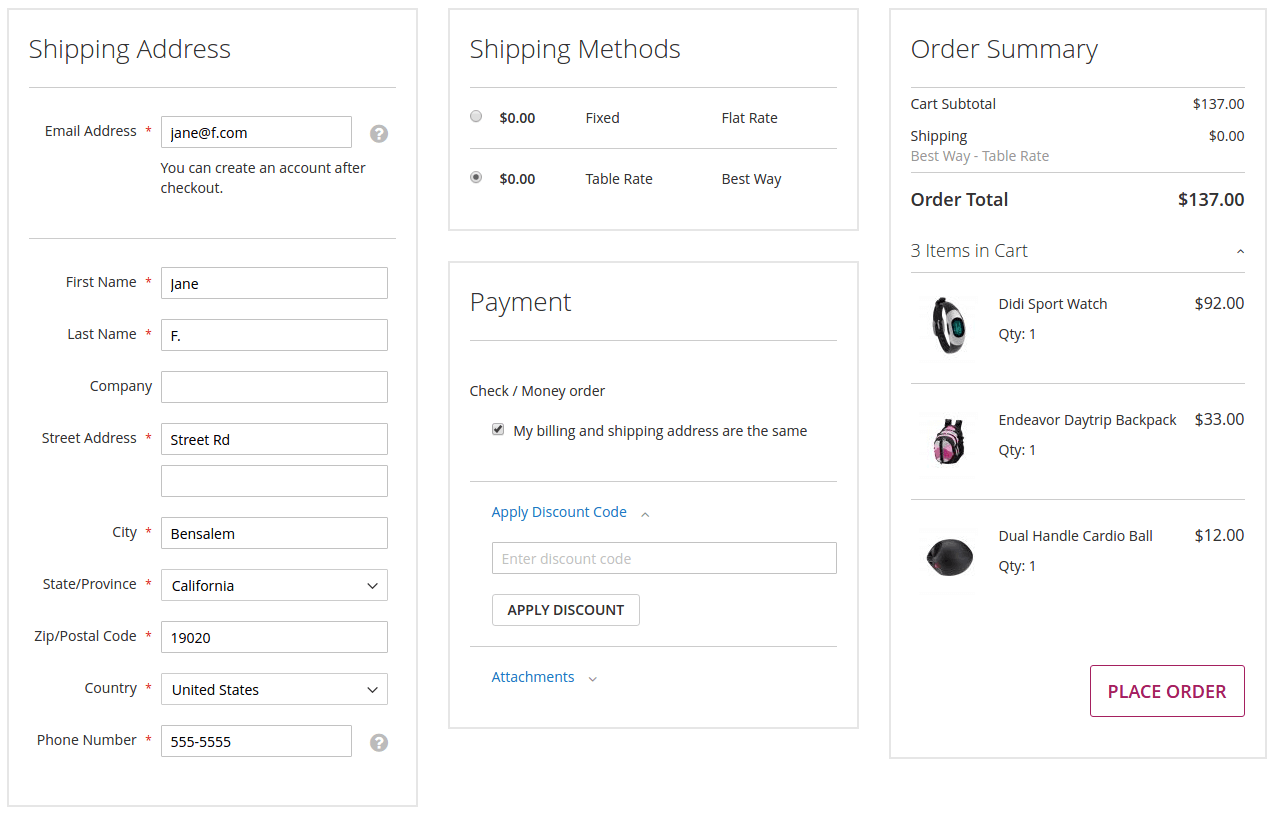
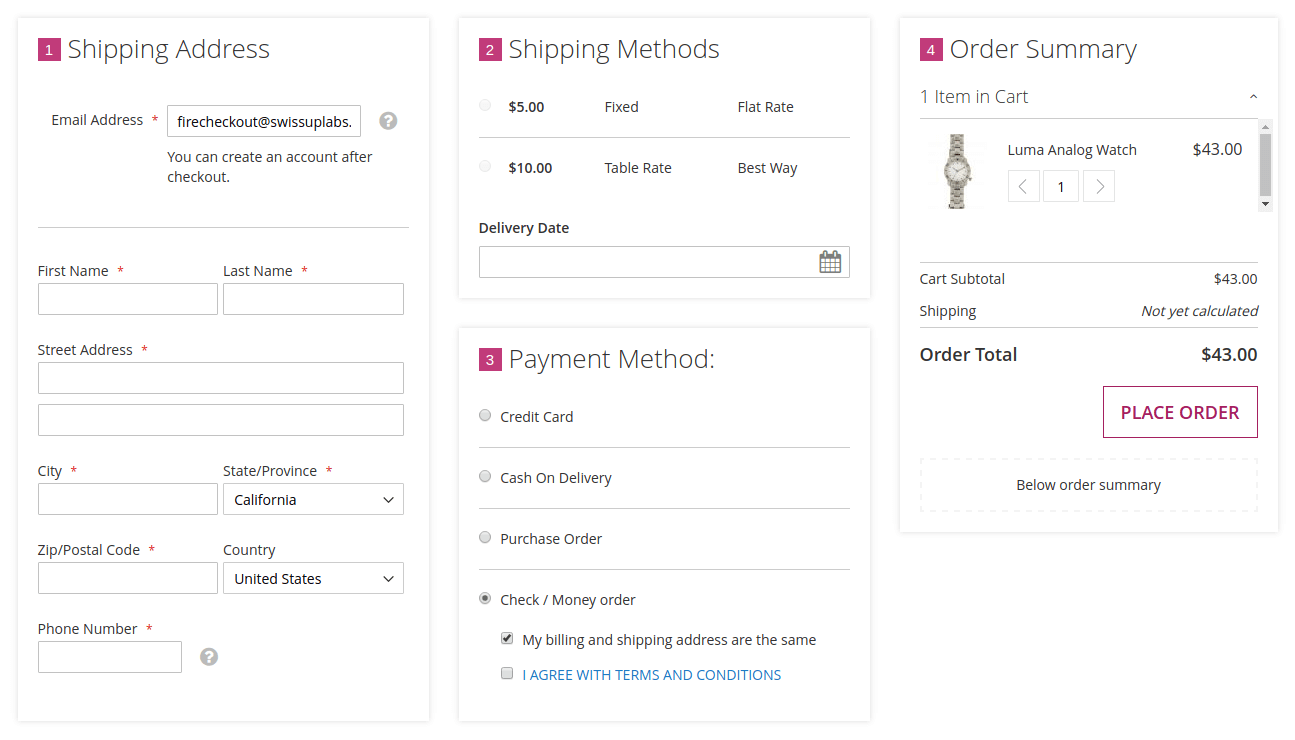
Firecheckout M2: 1.5.0 update

diff --git a/m2/extensions/firecheckout/customization/custom-css.md b/m2/extensions/firecheckout/customization/custom-css.md
@@ -24,10 +24,10 @@ worrying about further updates.
 
 ### Example
 
-Let's add some air to the firecheckout sections and slightly improve form styles.
+Let's slightly change form and firecheckout layout styles and section number colors.
 [Scroll down](#result) to see the result.
 
- 1. Create `_custom.less` file inside your active theme:
+ 1. Create two `_custom.less` files inside your active theme:
 
     ```
     app
@@ -38,41 +38,53 @@ Let's add some air to the firecheckout sections and slightly improve form styles
                     └── Swissup_Firecheckout
                         └── web
                             └── css
+                                ├── abstracts
+                                |   └── _custom.less
                                 ├── _custom.less
     ```
 
- 3. Add your custom styles:
+ 2. Redefine firecheckout variables with `abstracts/_custom.less` file:
 
     ```scss
-    @firecheckout-section__padding: 20px 20px;
-    @firecheckout-section__background: #fff;
-    @firecheckout-section__border: 2px solid rgba(0, 0, 0, 0.1);
+    @firecheckout-section__border: 0;
+    @firecheckout-section__padding: 12px 20px 20px;
+    @firecheckout-section__number-color: #fff;
+    @firecheckout-section__number-background-color: #c13b7a;
+    @firecheckout-section__box-shadow: 0 0 8px rgba(0,0,0,0.15);
+    ```
 
-    .firecheckout #checkout {
-        .step-title,
-        .opc-block-summary > .title {
-            padding-bottom: 20px;
+ 3. Add additional styles with `_custom.less`
+
+    ```scss
+    .firecheckout {
+        .swissup-delivery-date {
+            margin-top: 20px;
         }
     }
 
     @media (min-width: 1024px) {
-        .firecheckout .checkout-shipping-address,
-        .firecheckout .billing-address-form {
-            .fieldset > .field {
-                > .label {
-                    width: 35%;
+        .firecheckout {
+            .form-shipping-address,
+            .billing-address-form {
+                .fieldset > .field {
                     vertical-align: top;
-                    margin: 5px 0 0;
-                    padding: 0 5px 0 0;
-                    box-sizing: border-box;
-                    text-align: right;
-                    word-wrap: break-word;
-                    white-space: normal;
-                    font-weight: normal;
-                }
-                > .control {
                     display: inline-block;
-                    width: 62%;
+                    width: 50%;
+
+                    &.street {
+                        width: 100%;
+                    }
+
+                    > .label {
+                        width: auto;
+                        float: none;
+                        margin: 5px 0 2px;
+                        padding: 0 9px 0 0;
+                    }
+                    > .control {
+                        display: block;
+                        width: calc(~"100% - 5px");
+                    }
                 }
             }
         }
@@ -88,12 +100,12 @@ Let's add some air to the firecheckout sections and slightly improve form styles
     find pub/static var/view_preprocessed -type d -regex ".*Firecheckout.*css" -exec rm -rf {} \;
 
     # run deployment command
-    php bin/magento setup:static-content:deploy
+    php bin/magento setup:static-content:deploy en_US
     ```
 
 #### Result
 
-> Customization was done under [Swissup/argento-flat](/m2/argento/flat/) theme.
+> Customization was done under [Swissup/argento-pure2](/m2/argento/pure2/) theme.
 > Button styles are inherited from it.
 
 {% include gallery.html images=site.data.gallery.m2.firecheckout.customization.custom-css class="phone-up-1 tablet-up-1 photoswipe" %}

diff --git a/m2/extensions/firecheckout/customization/move-order-totals-below-cart-items.md b/m2/extensions/firecheckout/customization/move-order-totals-below-cart-items.md
@@ -9,94 +9,10 @@ category: Firecheckout
 
 # Move order totals below cart items
 
-> If you are not **Magento/luma** user, change file paths according to your
-> theme path.
->
-> Example: **Swissup/ArgentoFlat** for [ArgentoFlat](/m2/argento/) theme.
-
- 1. Create `firecheckout_index_index.xml` layout file in your theme:
-
-    ```
-    /app/design/frontend/Magento/luma/Swissup_Firecheckout/layout/firecheckout_index_index.xml
-    ```
-
-    And add the following content into it:
-
-    ```xml
-    <?xml version="1.0"?>
-    <page xmlns:xsi="http://www.w3.org/2001/XMLSchema-instance"
-        xsi:noNamespaceSchemaLocation="urn:magento:framework:View/Layout/etc/page_configuration.xsd">
-        <body>
-            <referenceBlock name="checkout.root">
-                <arguments>
-                    <argument name="jsLayout" xsi:type="array">
-                        <item name="components" xsi:type="array">
-                            <item name="checkout" xsi:type="array">
-                                <item name="children" xsi:type="array">
-                                    <item name="sidebar" xsi:type="array">
-                                        <item name="children" xsi:type="array">
-                                            <item name="summary" xsi:type="array">
-                                                <item name="children" xsi:type="array">
-                                                    <item name="totals" xsi:type="array">
-                                                        <item name="sortOrder" xsi:type="string">1</item>
-                                                    </item>
-                                                    <item name="cart_items" xsi:type="array">
-                                                        <item name="sortOrder" xsi:type="string">0</item>
-                                                    </item>
-                                                </item>
-                                            </item>
-                                        </item>
-                                    </item>
-                                </item>
-                            </item>
-                        </item>
-                    </argument>
-                </arguments>
-            </referenceBlock>
-        </body>
-    </page>
-    ```
-
- 2. Create `_custom.less` styles, that will be [automatically included](../custom-css/)
-    by firecheckout:
-
-    ```
-    /app/design/frontend/Magento/luma/Swissup_Firecheckout/web/css/_custom.less
-    ```
-
-    And add the following content into it:
-
-    ```scss
-    @media (min-width: 768px) {
-        .firecheckout {
-            .opc-block-summary {
-                .items-in-cart {
-                    margin-bottom: 15px;
-                }
-                .table-totals {
-                    border-top: none;
-                    margin-bottom: 25px;
-                }
-            }
-        }
-    }
-    ```
-
- 3. Run "Deploy static content" command:
-
-    ```bash
-    cd <magento_root>
-
-    # remove previously deployed firecheckout styles
-    find pub/static var/view_preprocessed -type d -regex ".*Firecheckout.*css" -exec rm -rf {} \;
-
-    # run deployment command
-    bin/magento setup:static-content:deploy
-    ```
-
-#### Result
-
-![Firecheckout with header navigation](/images/m2/firecheckout/customization/move-order-totals-below-cart-items/firecheckout.png)
+> In order to easily move order totals below cart items, you need to update
+> firecheckout to the [1.5.0](/m2/extensions/firecheckout/changelog/#version-150)
+> or higher version and use
+> [checkout cart module configuration](/m2/extensions/checkout-cart/#settings).
 
 ##### Next up
 

diff --git a/m2/extensions/firecheckout/customization/change-page-layout.md b/m2/extensions/firecheckout/customization/change-page-layout.md
@@ -9,102 +9,10 @@ category: Firecheckout
 
 # Change page layout
 
-> You will find how to add Navigation/Footer/Header block to the checkout page
-> below.
-
-> If you are not **Magento/luma** user, change file paths according to your
-> theme path.
->
-> Example: **Swissup/ArgentoFlat** for [ArgentoFlat](/m2/argento/) theme.
-
-Firecheckout uses `checkout` layout by default. It's a Magento built-in layout,
-which main purpose is to increase converstion rate. All elements are removed
-from the checkout page, to prevent user ditraction from making a purchase.
-
-However, sometimes you really need to show navigation/footer or top header panel.
-
-Follow the steps below to achieve your needs:
-
- 1. Create `firecheckout_index_index.xml` layout file in your theme:
-
-    ```
-    /app/design/frontend/Magento/luma/Swissup_Firecheckout/layout/firecheckout_index_index.xml
-    ```
-
-    And add the following content into it:
-
-    ```xml
-    <?xml version="1.0"?>
-    <page xmlns:xsi="http://www.w3.org/2001/XMLSchema-instance"
-        layout="1column"
-        xsi:noNamespaceSchemaLocation="urn:magento:framework:View/Layout/etc/page_configuration.xsd">
-        <body>
-            <attribute name="class" value="firecheckout-layout-full"/>
-
-            <move element="logo" destination="header-wrapper" before="-"/>
-
-            <referenceBlock name="header.panel.wrapper" remove="true"/>
-            <referenceBlock name="top.search" remove="true"/>
-            <referenceBlock name="minicart" remove="true"/>
-            <referenceBlock name="footer-container" remove="true"/>
-            <referenceBlock name="copyright" remove="true"/>
-        </body>
-    </page>
-    ```
-
- 2. Create `_custom.less` styles, that will be [automatically included](../custom-css/)
-    by firecheckout:
-
-    ```
-    /app/design/frontend/Magento/luma/Swissup_Firecheckout/web/css/_custom.less
-    ```
-
-    And add the following content into it:
-
-    ```scss
-    @media (min-width: 768px) {
-        .firecheckout-layout-full {
-            .page-header .header.panel,
-            .navigation {
-                max-width: @firecheckout-page-wide__width;
-            }
-
-            // Show navigation block
-            .nav-sections {
-                display: block;
-            }
-
-            // Fix "Sign In" position
-            .authentication-wrapper {
-                margin-top: -130px; // Tune up this value for your theme
-            }
-
-            // ArgentoFlat fix
-            header + .page-main {
-                margin-top: 20px;
-                .authentication-wrapper {
-                    margin: -5px 0 10px;
-                }
-            }
-        }
-    }
-    ```
-
- 3. Run "Deploy static content" command:
-
-    ```bash
-    cd <magento_root>
-
-    # remove previously deployed firecheckout styles
-    find pub/static var/view_preprocessed -type d -regex ".*Firecheckout.*css" -exec rm -rf {} \;
-
-    # run deployment command
-    bin/magento setup:static-content:deploy
-    ```
-
-#### Result
-
-![Firecheckout with header navigation](/images/m2/firecheckout/customization/change-page-layout/header-navigation.png)
+> In order to easily change page layout at firecheckout page, you need to update
+> firecheckout to the [1.5.0](/m2/extensions/firecheckout/changelog/#version-150)
+> or higher version and change layout from
+> [module configuration](/m2/extensions/firecheckout/configuration/#design-section).
 
 ##### Next up
 

diff --git a/m2/extensions/firecheckout/customization/less-variables.md b/m2/extensions/firecheckout/customization/less-variables.md
@@ -14,11 +14,11 @@ styles.
 
 You can always find a full list of variables in firecheckout sources.
 
-See the `swissup/firecheckout/view/frontend/web/css/_variables.less` file.
+See the `swissup/firecheckout/view/frontend/web/css/abstracts/_variables.less` file.
 
 Group   | Variable name | Default value
---------|--------------|--------------
-**Page variables** |                  |
+--------|---------------|--------------
+**Page variables** |                 |
 |@firecheckout-page-wide__width      | 1280px;
 |@firecheckout-page-narrow__width    | 980px;
 **Section variables** |              |
@@ -27,11 +27,22 @@ Group   | Variable name | Default value
 |@firecheckout-section__background   | #fcfcfc;
 |@firecheckout-section__border       | 1px solid rgba(0, 0, 0, 0.1);
 |@firecheckout-section-desktop__gap  | 30px;
-**Layout variables** |               |
-|@firecheckout-layout-1column__content-width         | 65%;
-|@firecheckout-layout-2columns__column1-width        | 40%
-|@firecheckout-layout-2columns-alt__column1-width    | 100% / 3;
-|@firecheckout-layout-3columns__columns-width        | 35%;
+**Section numbers variables** |      |
+|@firecheckout-section__number-height            | 23px
+|@firecheckout-section__number-color             | #fff
+|@firecheckout-section__number-background-color  | #000
+|@firecheckout-section__number-font-family       | Verdana, sans-serif
+|@firecheckout-section__number-font-size         | 15px
+|@firecheckout-section__number-font-weight       | normal
+**Layout variables** |                              |
+|@firecheckout-layout-1column__content-width        | 65%;
+|@firecheckout-layout-2columns__column1-width       | 40%
+|@firecheckout-layout-2columns-alt__column1-width   | 100% / 3;
+|@firecheckout-layout-3columns__columns-width       | 35%;
+|@opc-wrapper-selector | ~".opc-wrapper"
+**Modal popup styles** |                    |
+|@firecheckout-modal__popup-effect          | 'zoom' (zoom,slide-down)
+|@firecheckout-authentication__popup-effect | @firecheckout-modal__popup-effect
 
 ##### Next up
 
